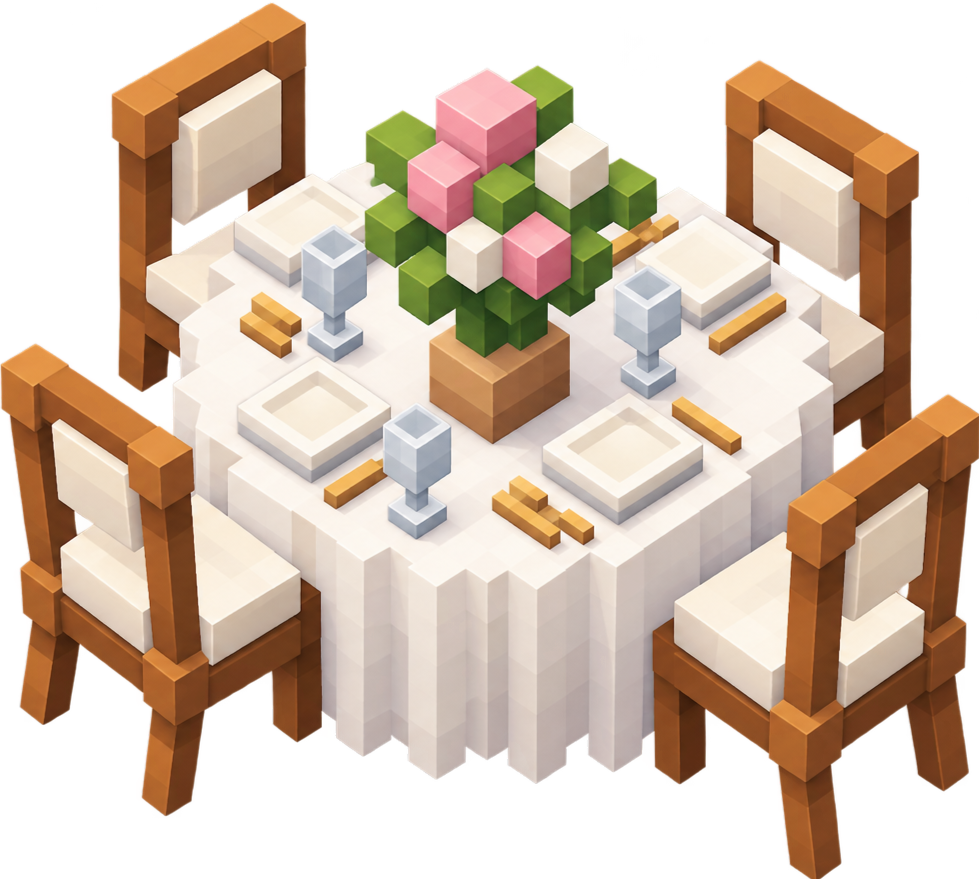
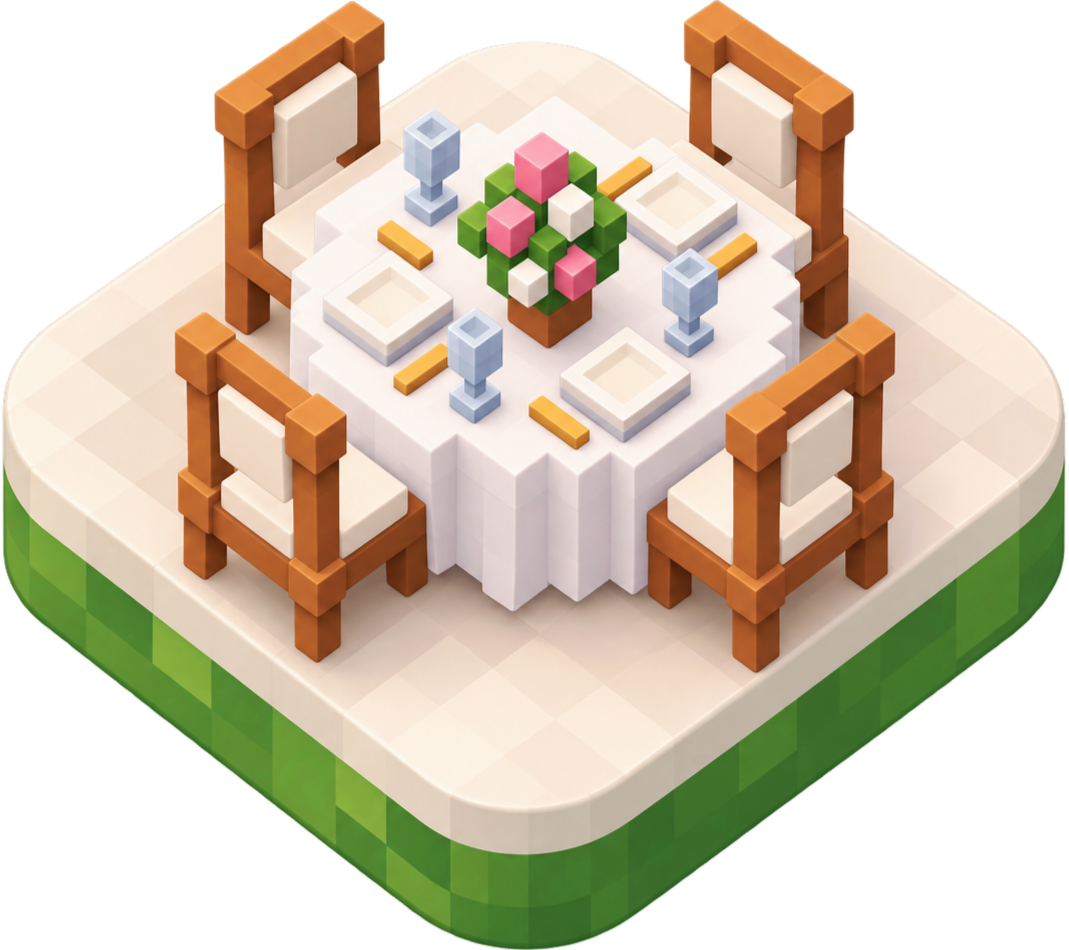
Troca a ilustração da mesa por uma versão com a ilha/base já embutida

diff --git a/mobile-app/app/lib/features/seating/screens/seating_screen.dart b/mobile-app/app/lib/features/seating/screens/seating_screen.dart
@@ -284,51 +284,21 @@ class _TableCell extends StatelessWidget {
     final isLocked = state == _CellState.locked;
     final isNext = state == _CellState.next;
 
-    final image = Image.asset(_seatingTableAsset, fit: BoxFit.contain);
+    // A ilustração já vem com a base/ilha e sombra embutidas — sem
+    // cartão nem sombra artificial à volta, só a imagem tal como está.
+    final image = isLocked
+        ? ColorFiltered(
+            colorFilter: const ColorFilter.matrix(_grayscaleMatrix),
+            child: Image.asset(_seatingTableAsset, fit: BoxFit.contain),
+          )
+        : Image.asset(_seatingTableAsset, fit: BoxFit.contain);
 
-    // Sem cartão nem cor de fundo à volta — só a ilustração a "flutuar"
-    // com uma sombra elíptica desfocada por baixo, como se cada mesa
-    // fosse uma ilha, em vez de um retângulo preso à grelha.
     final island = Opacity(
       opacity: isLocked ? 0.55 : 1,
       child: Column(
         mainAxisAlignment: MainAxisAlignment.center,
         children: [
-          Expanded(
-            child: Stack(
-              alignment: Alignment.center,
-              children: [
-                Positioned(
-                  bottom: 2,
-                  child: Container(
-                    width: 34,
-                    height: 8,
-                    decoration: BoxDecoration(
-                      borderRadius: BorderRadius.circular(999),
-                      boxShadow: [
-                        BoxShadow(
-                          color: Colors.black.withValues(alpha: 0.3),
-                          blurRadius: 9,
-                          spreadRadius: 2,
-                        ),
-                      ],
-                    ),
-                  ),
-                ),
-                Padding(
-                  padding: const EdgeInsets.all(2),
-                  child: isLocked
-                      ? ColorFiltered(
-                          colorFilter: const ColorFilter.matrix(
-                            _grayscaleMatrix,
-                          ),
-                          child: image,
-                        )
-                      : image,
-                ),
-              ],
-            ),
-          ),
+          Expanded(child: Padding(padding: const EdgeInsets.all(2), child: image)),
           const SizedBox(height: 2),
           Text(
             isNext && draftCount != null
